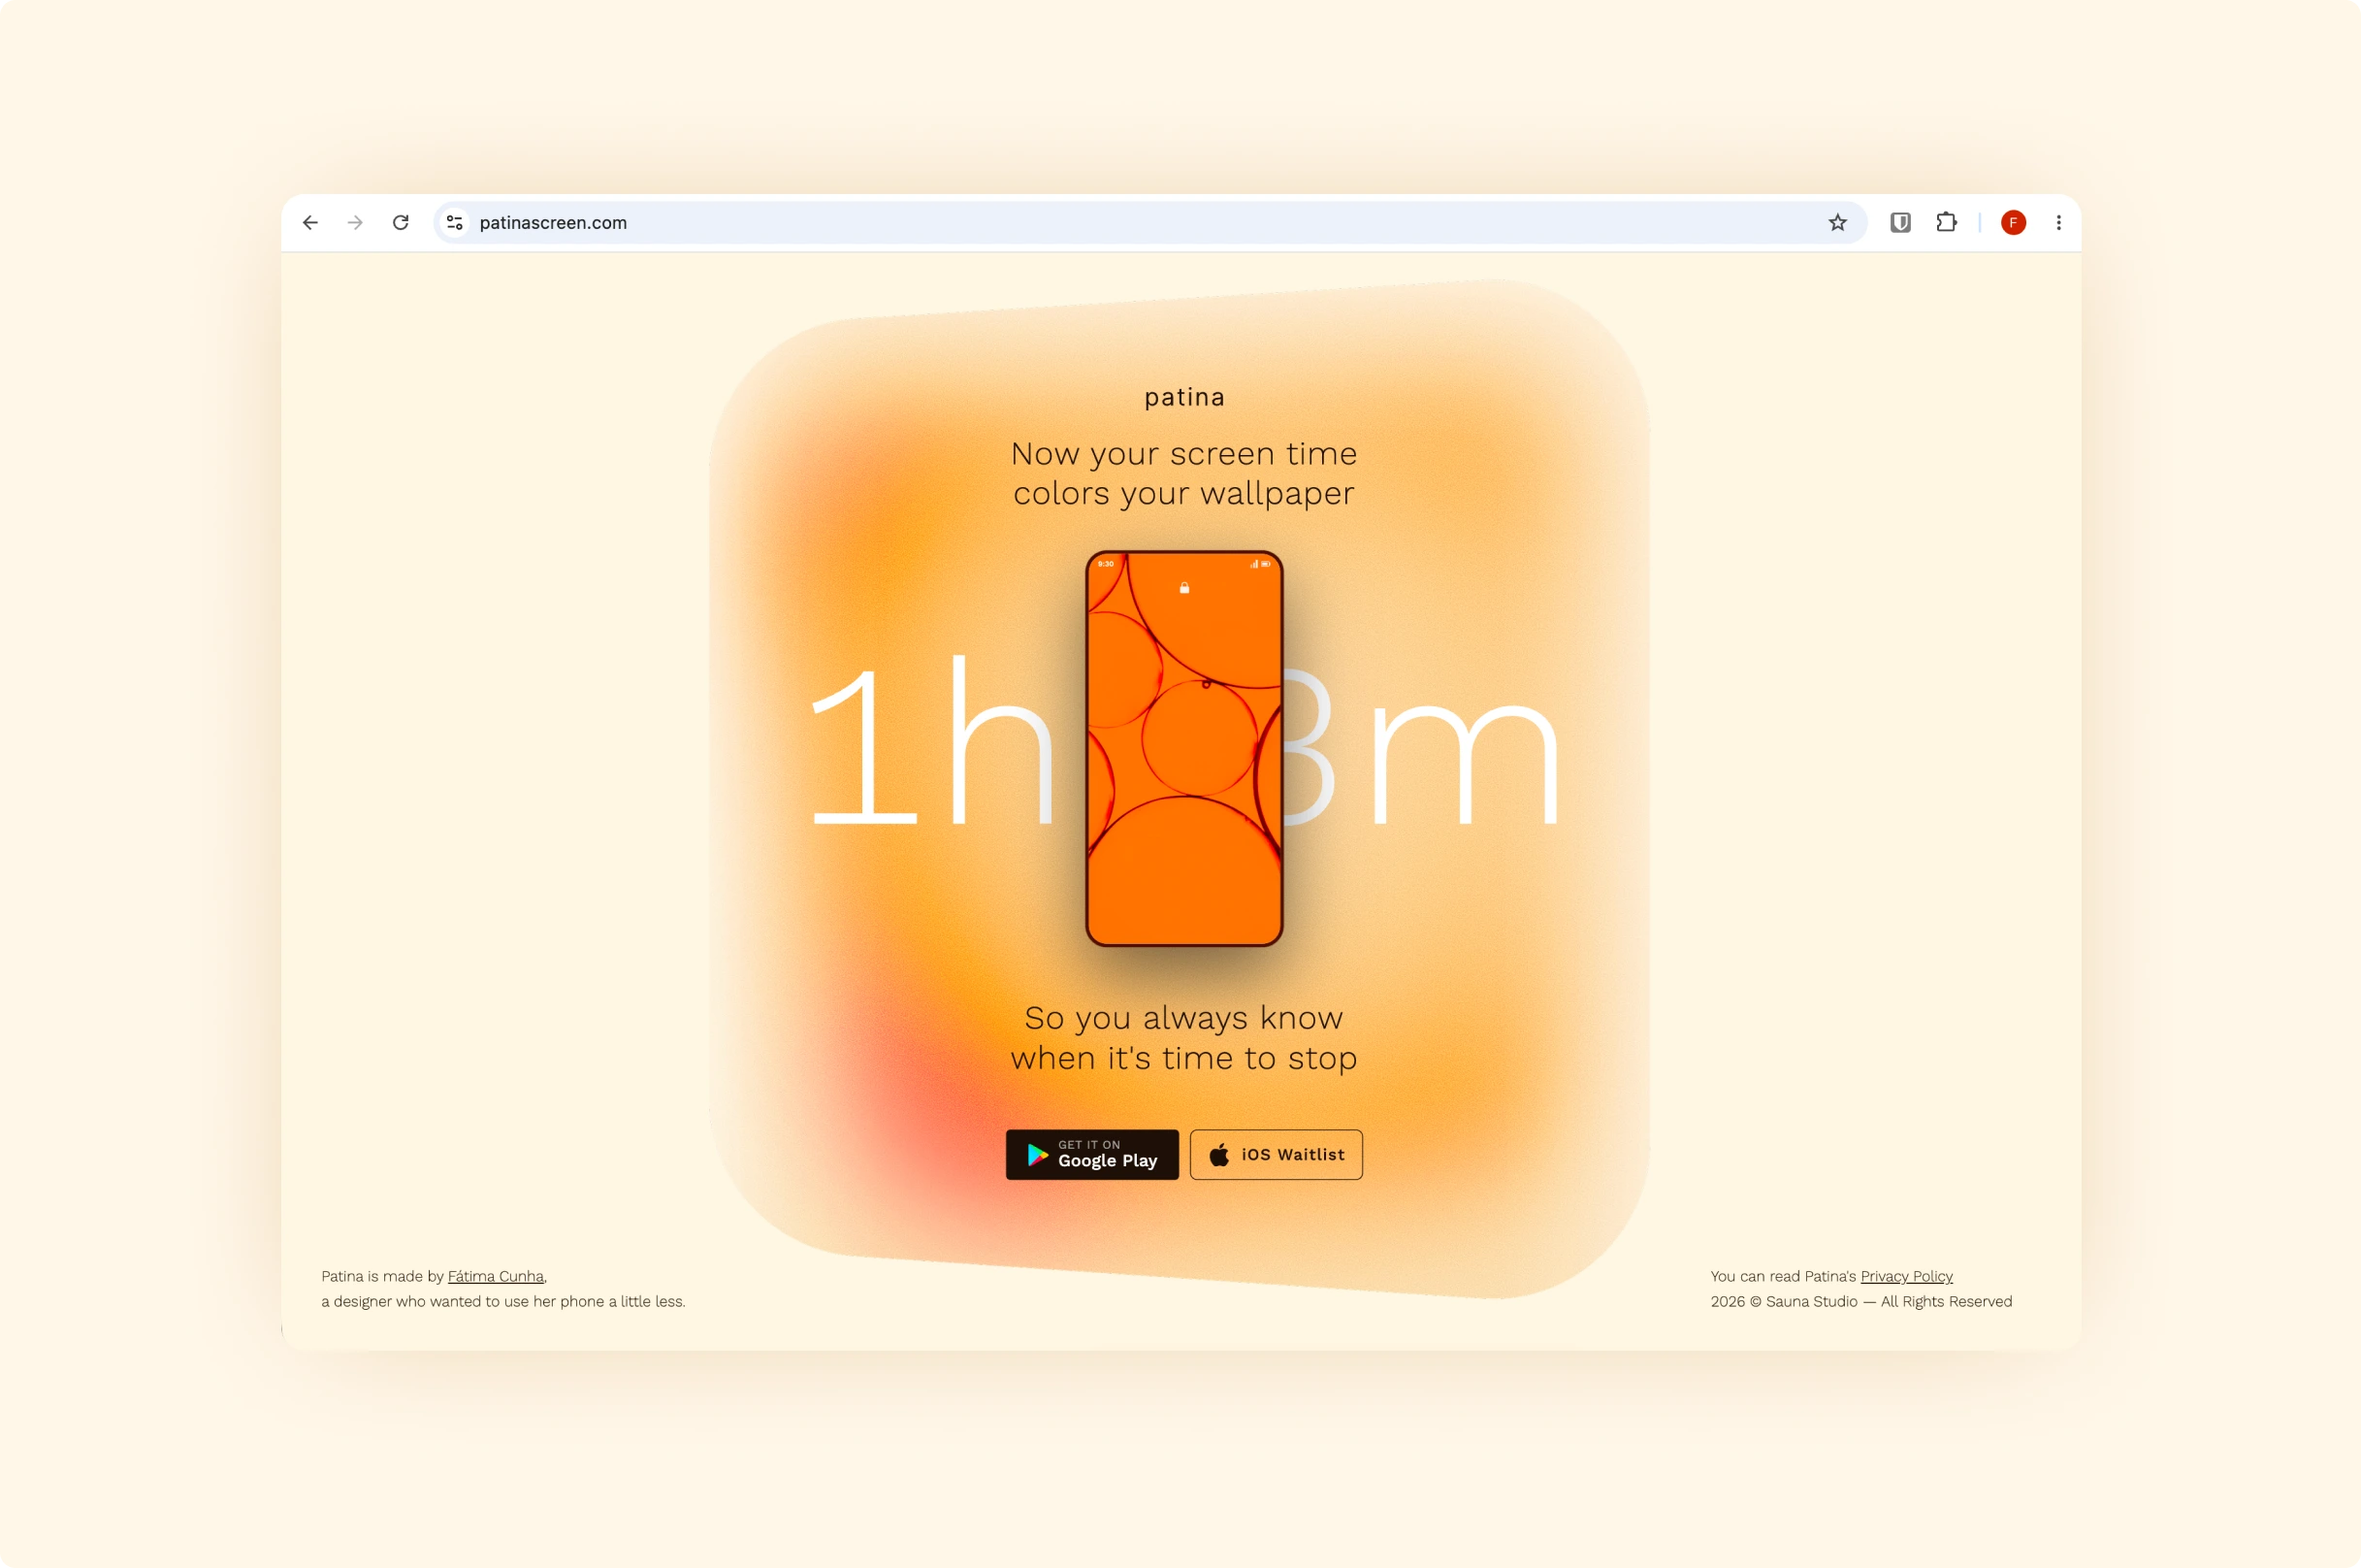
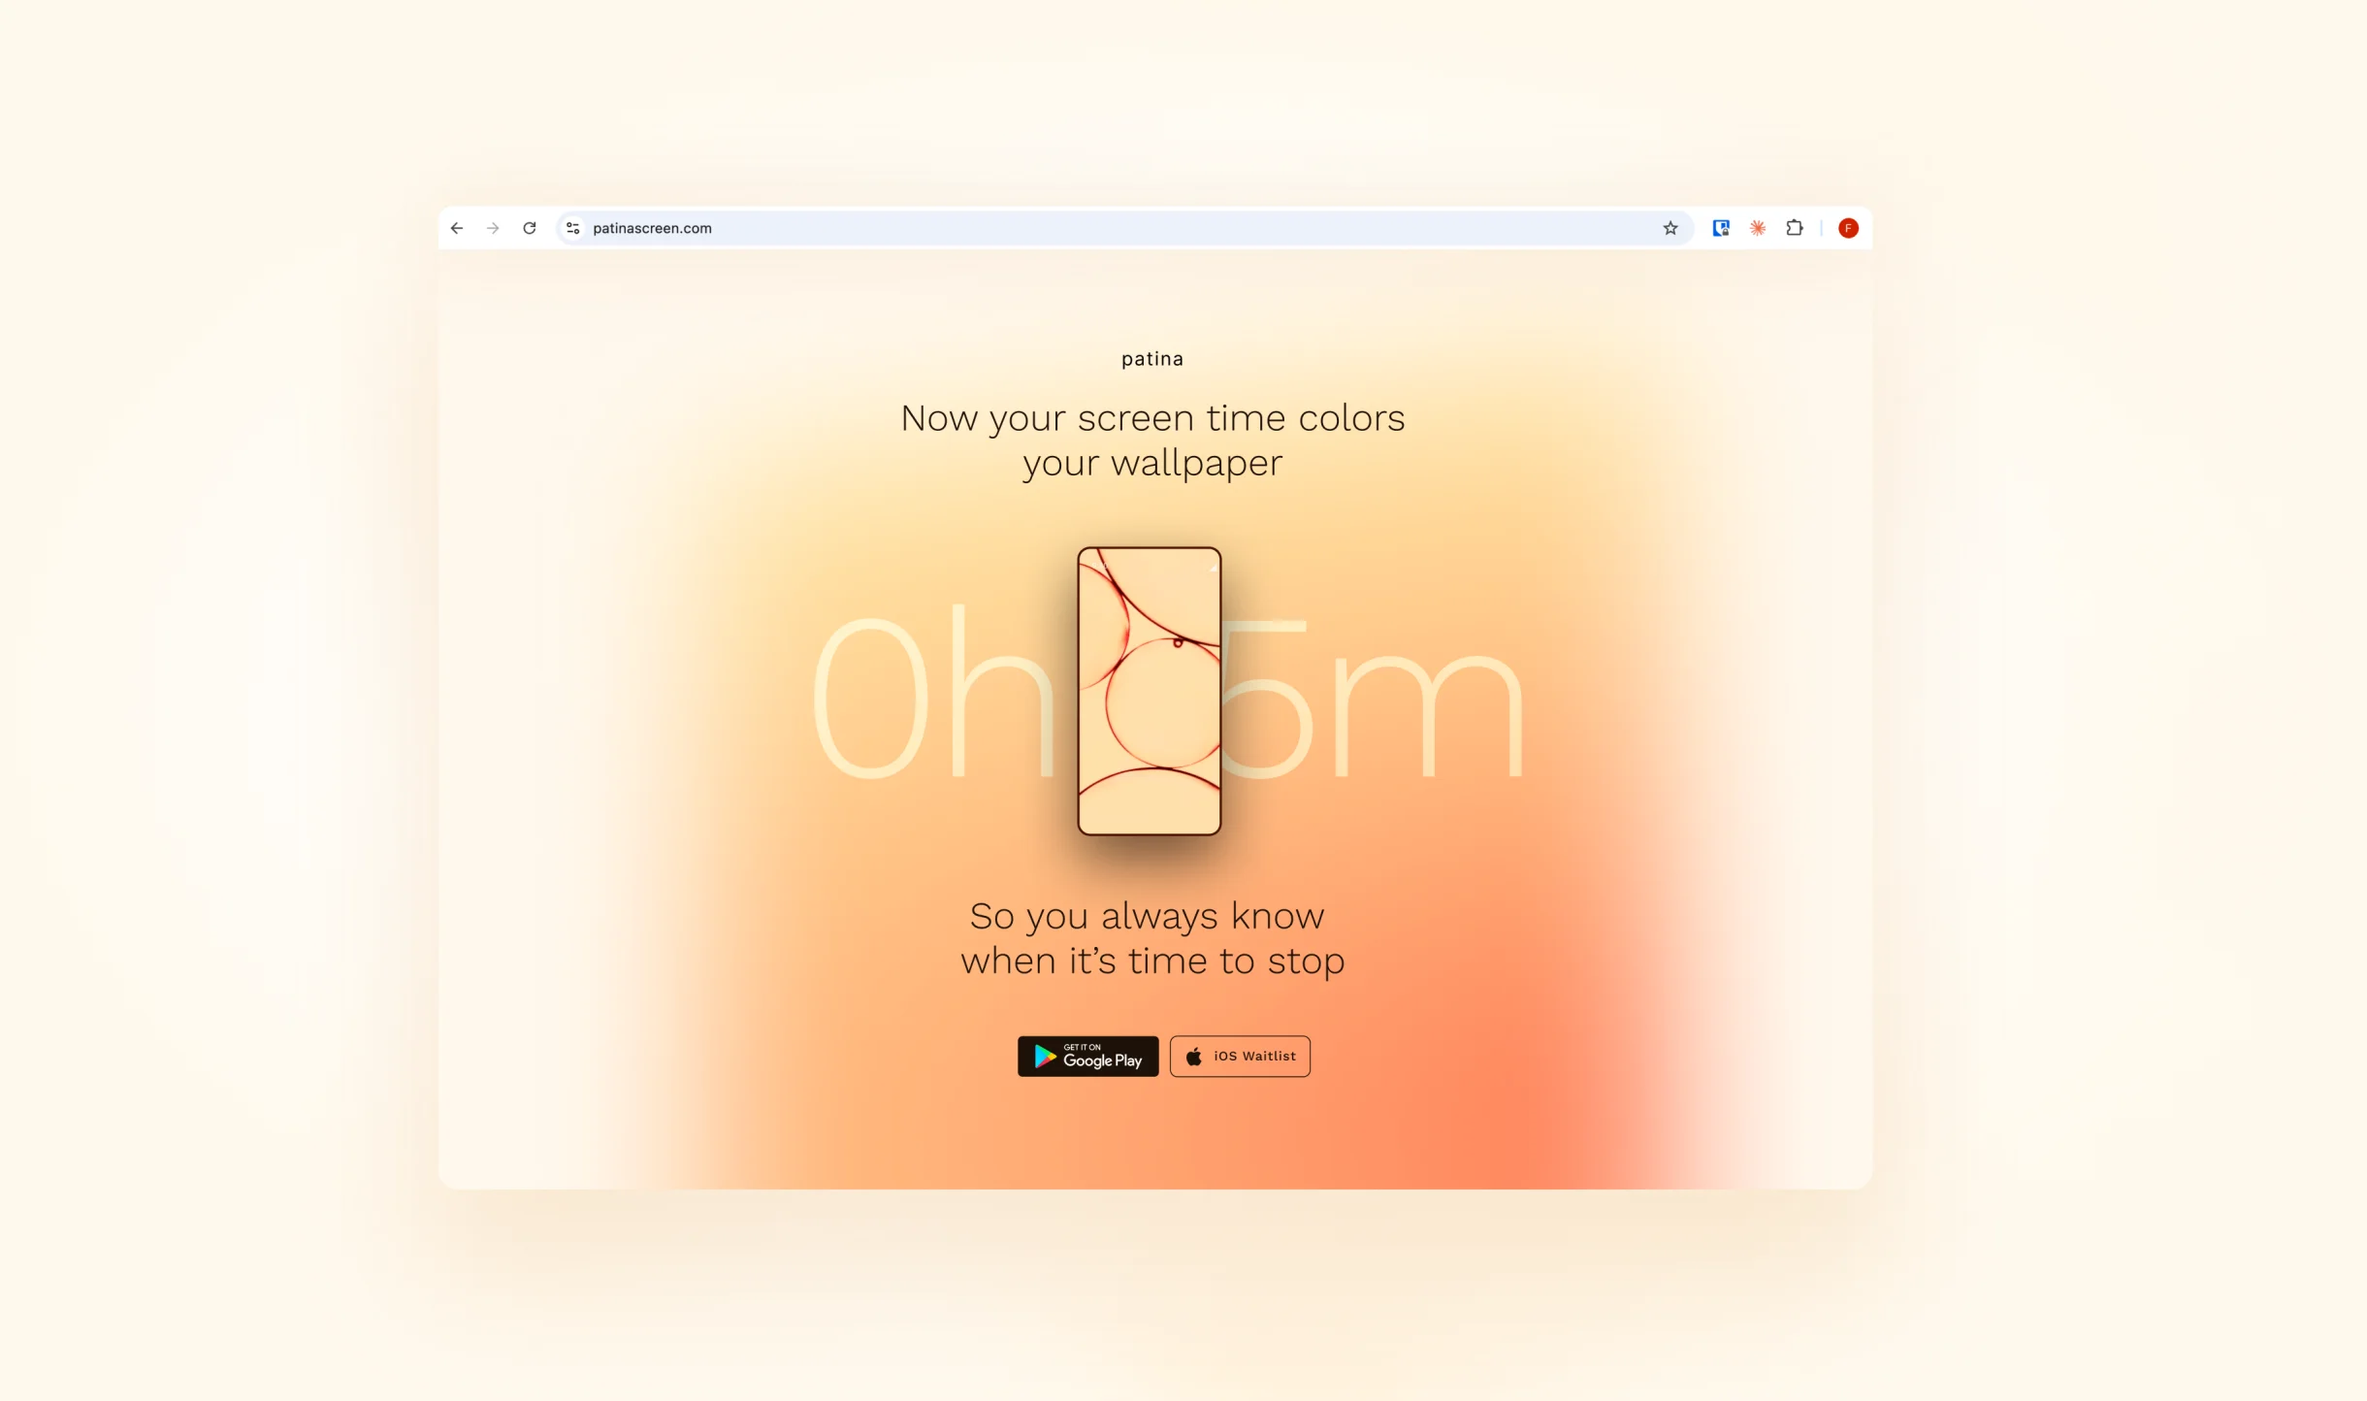
Update Patina website preview image

diff --git a/app/_shell/PatinaContent.tsx b/app/_shell/PatinaContent.tsx
@@ -338,7 +338,7 @@ export function PatinaContent() {
         <FillImage
           src="/patina/patina-site.webp"
           alt="Patina website preview"
-          aspect="aspect-[2434/1616]"
+          aspect="aspect-[2440/1444]"
         />
       </RevealOnScroll>
 
